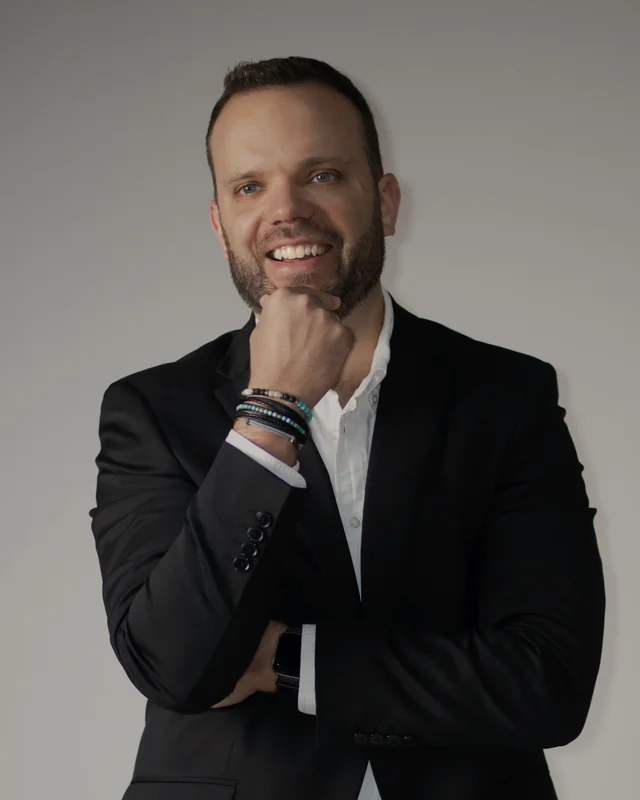
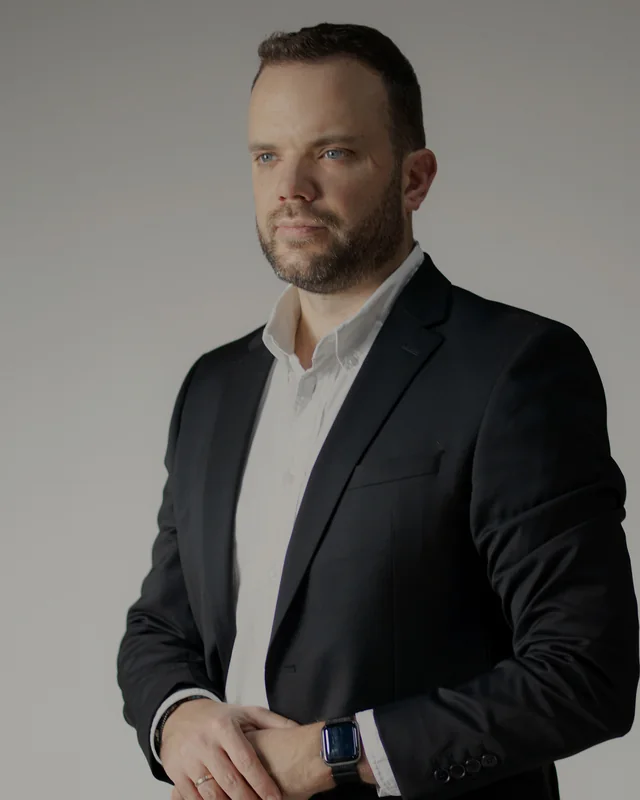
Hero: portret z wzrokiem w bok (do porównania z poprzednim uśmiechniętym)
Claude-Session: https://claude.ai/code/session_013LL2KChbCobaZxLabcUCCs

diff --git a/index.html b/index.html
@@ -146,7 +146,7 @@
               src="images/hero-portrait-1080.webp"
               srcset="images/hero-portrait-640.webp 640w, images/hero-portrait-1080.webp 1080w"
               sizes="(max-width: 767px) 100vw, 480px"
-              alt="Michał Wilkosz — CEO Szybex, uśmiechnięty portret w czarnym garniturze"
+              alt="Michał Wilkosz — CEO Szybex, portret w czarnym garniturze i białej koszuli"
               width="1080"
               height="1350"
               loading="eager"
